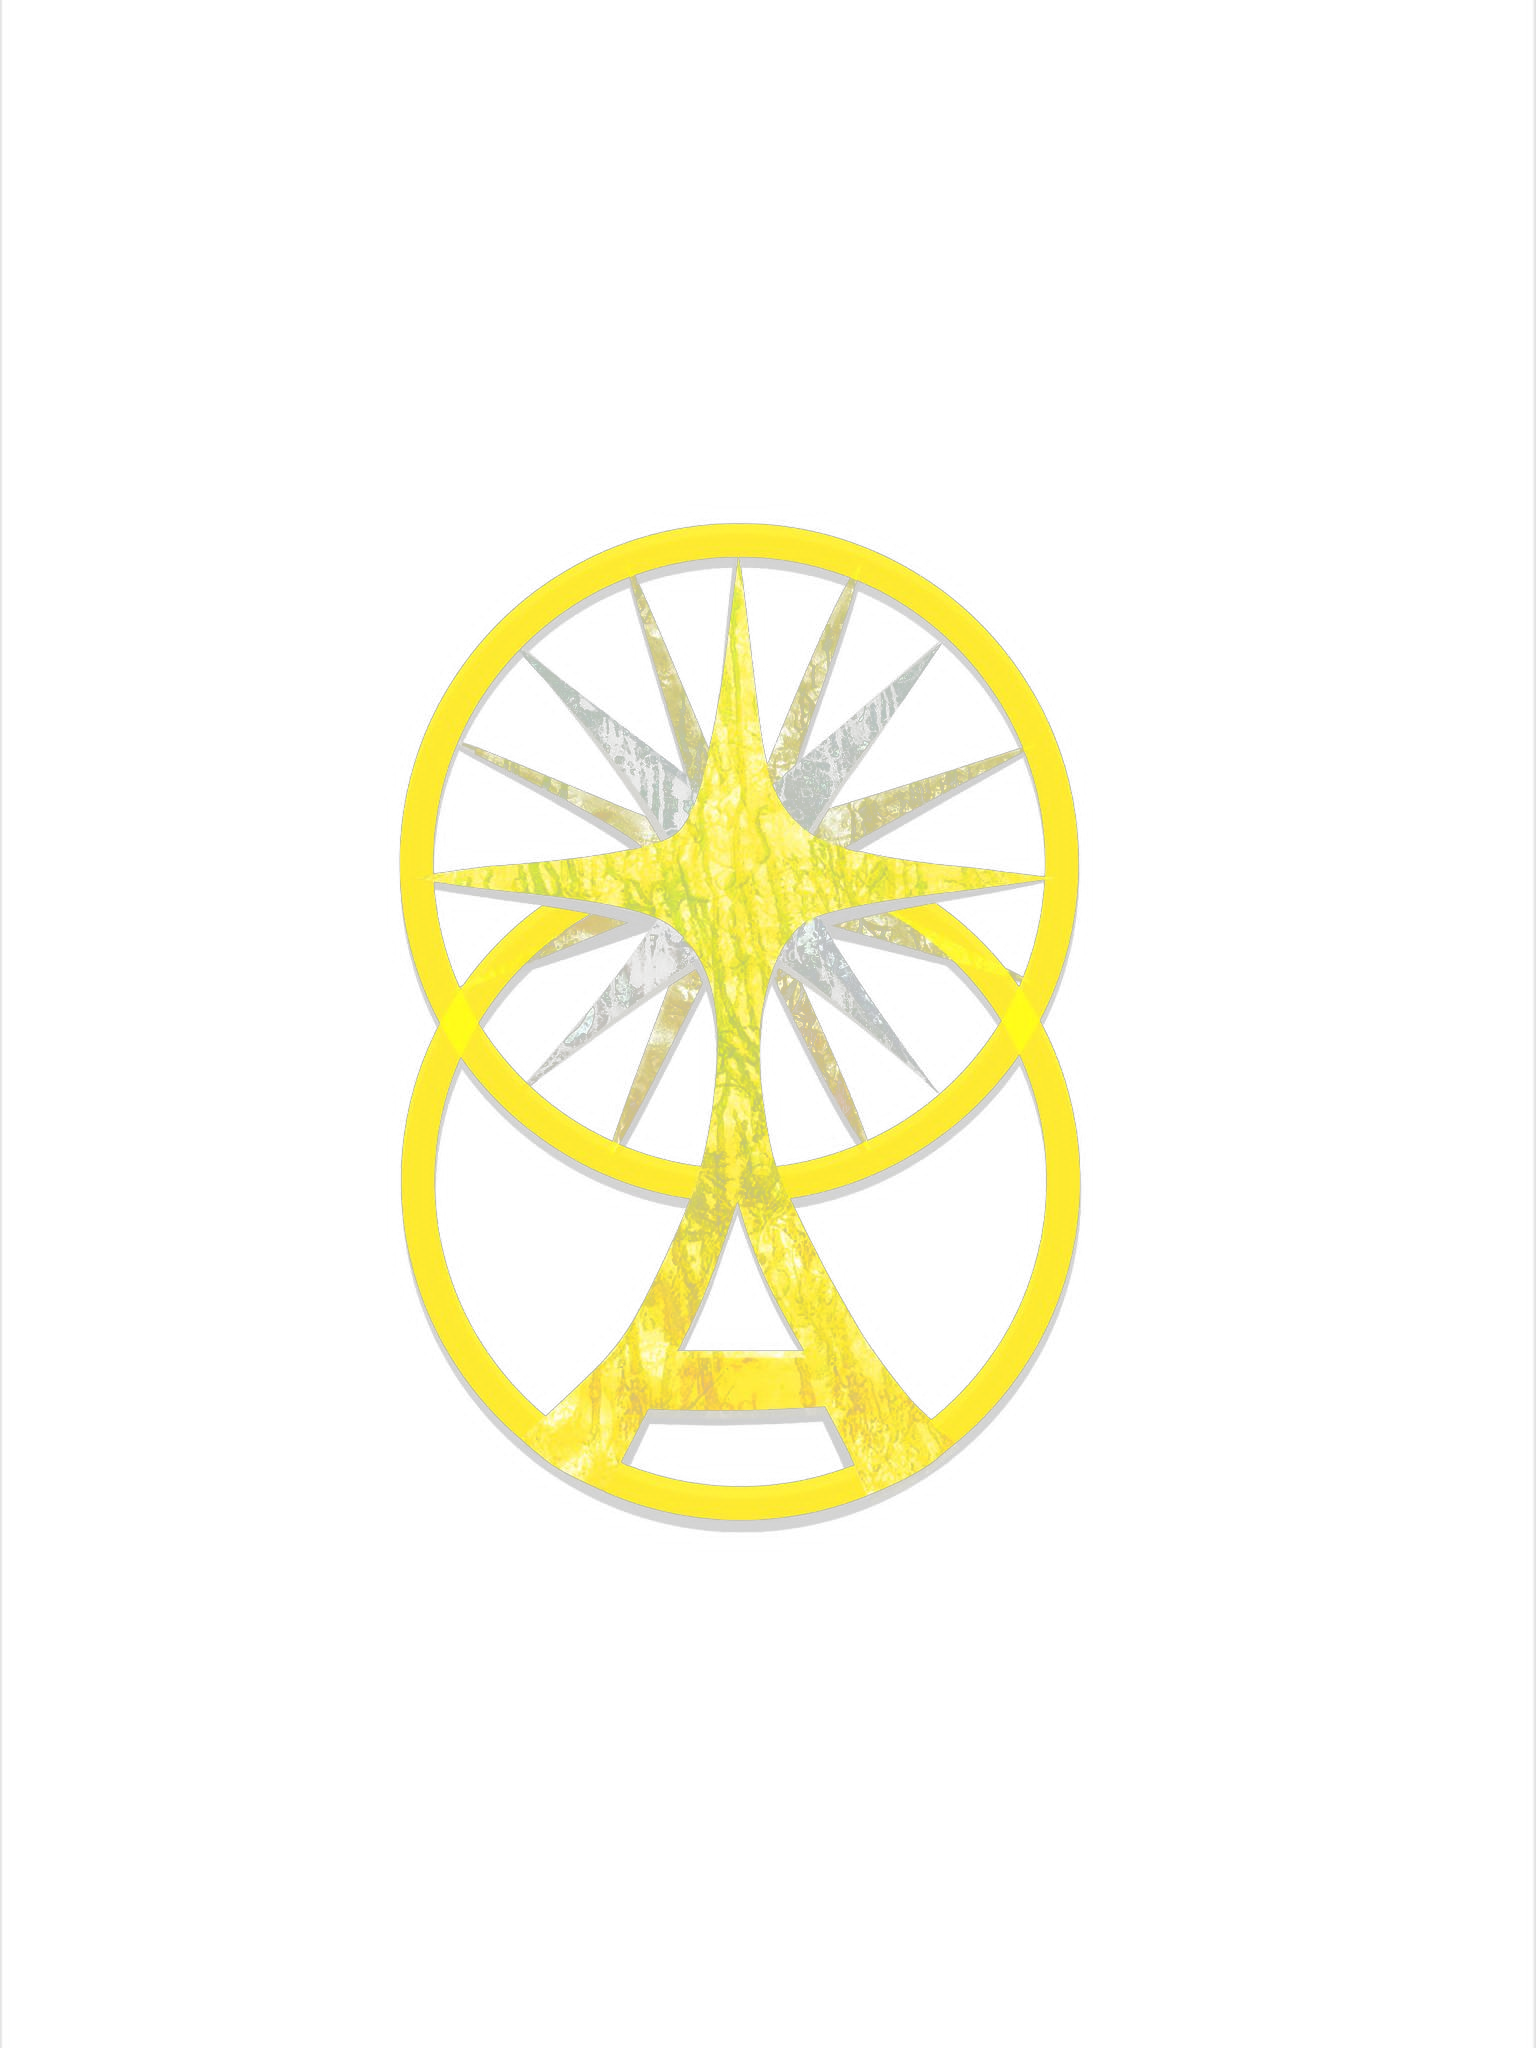
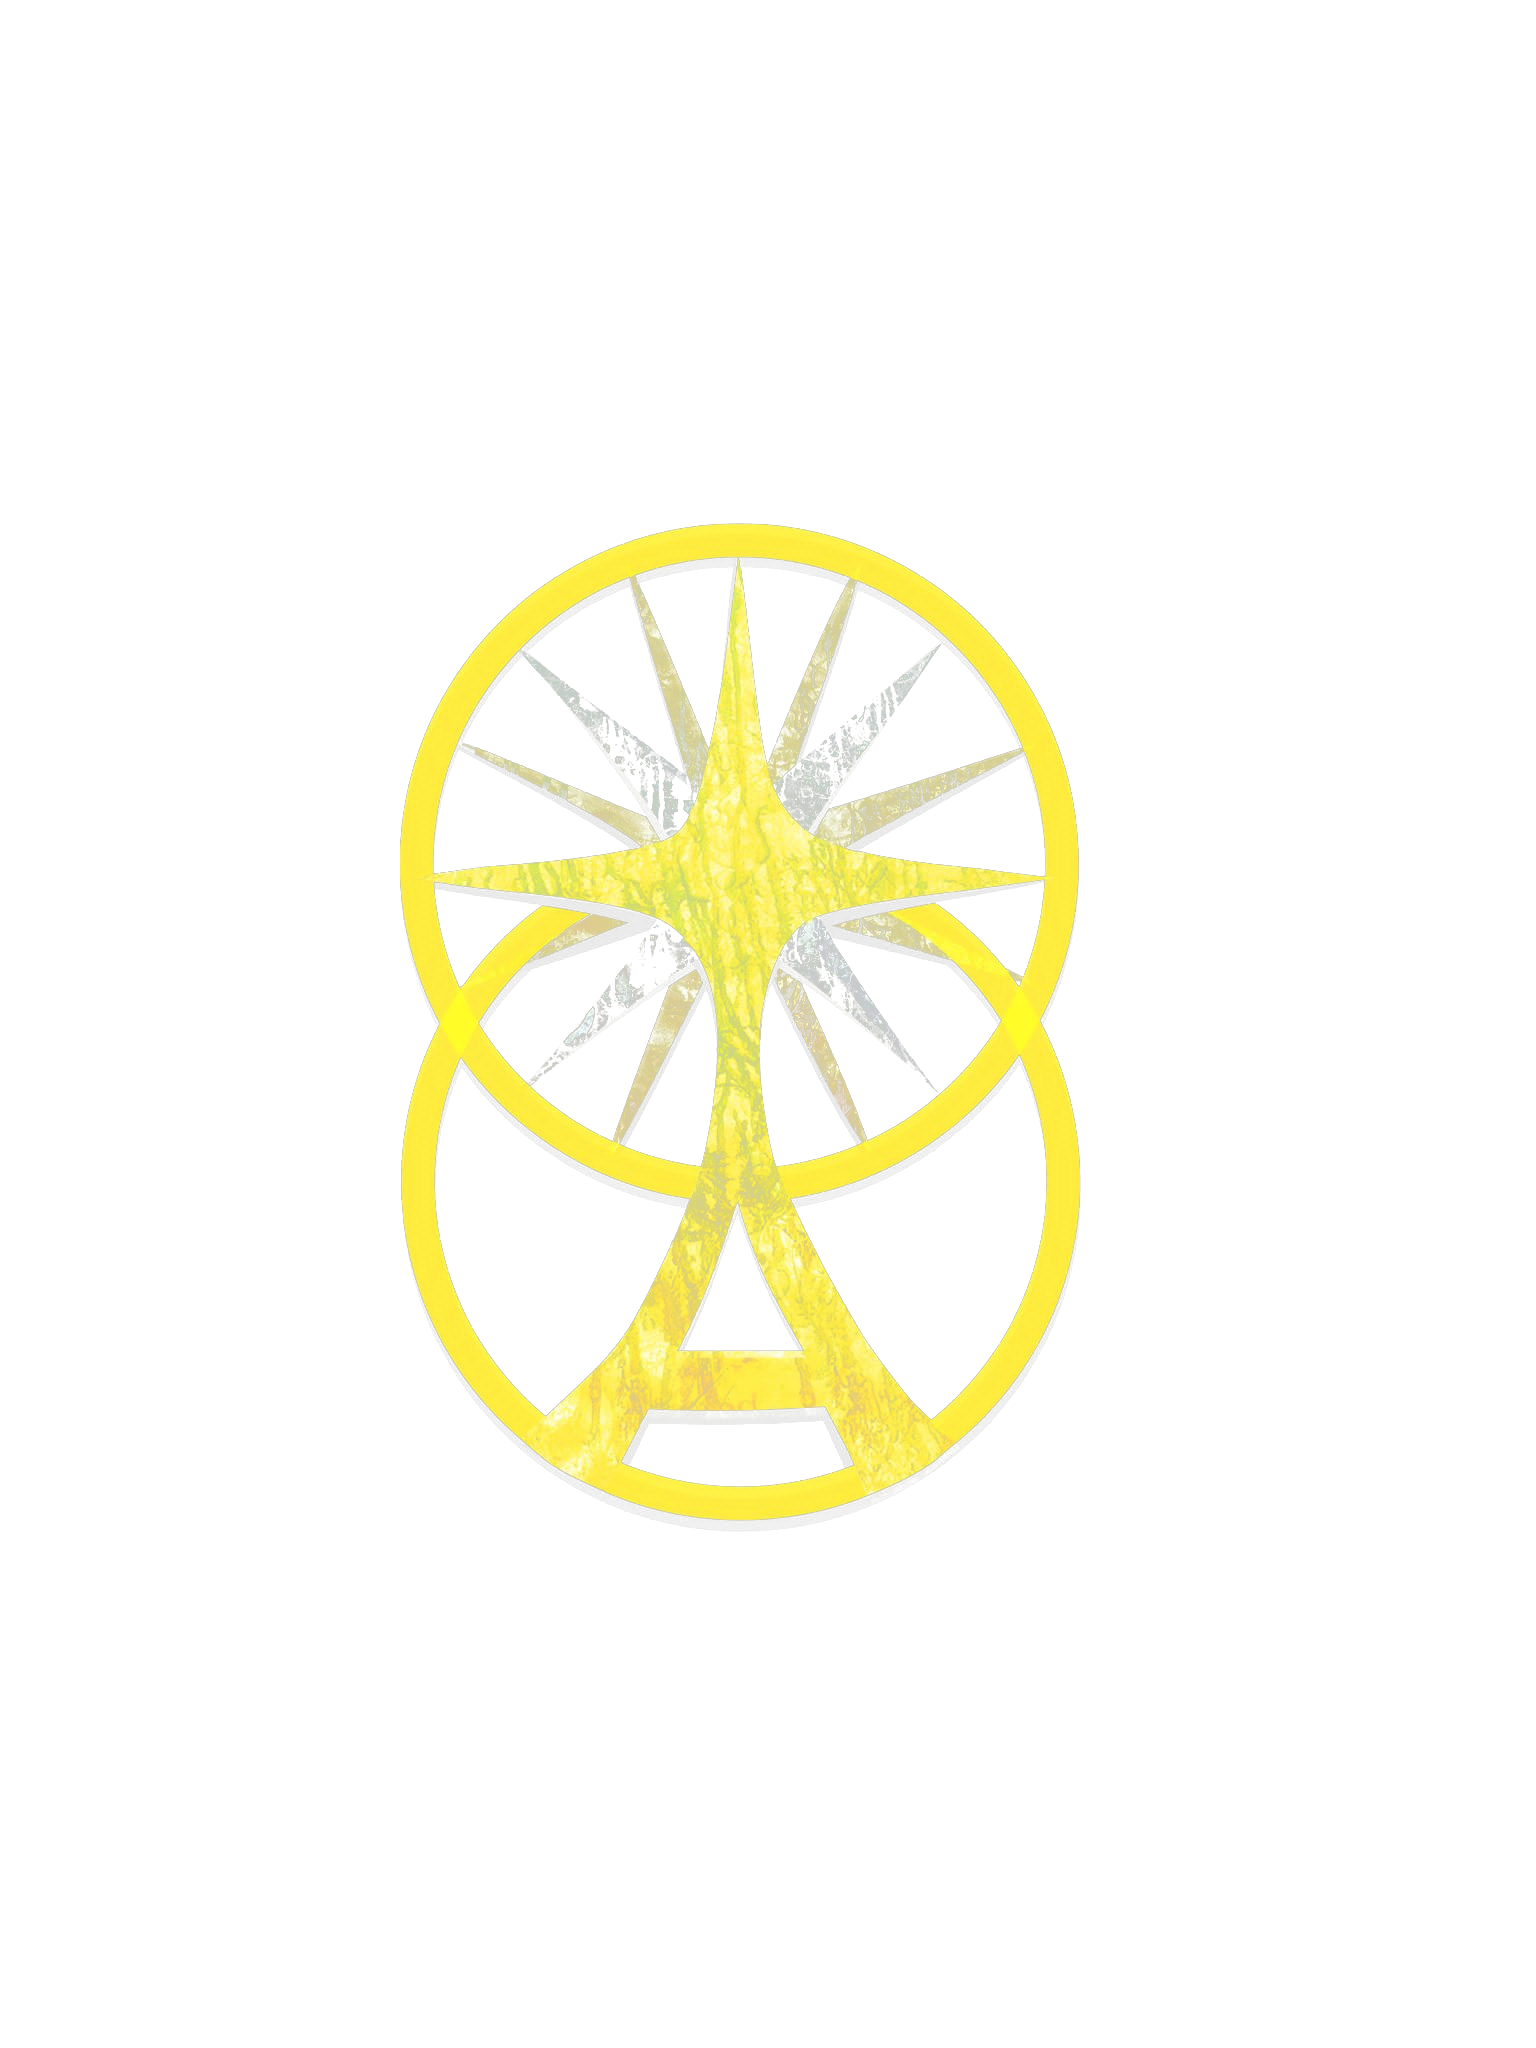
fix(seal): remove background haze and scale the seal up 1.75x (#34)
* fix(seal): remove background haze and scale the seal up 1.75x

Two real problems found on the live site, both confirmed before
fixing:

- The seal had a visible grey background different from the board's
  white. Pixel-sampled the PNG directly: all 4 corners read alpha
  ~32-34, not 0 - the source JPG's "black" background wasn't pure
  #000000 (JPEG compression noise), and the original luminance-as-
  alpha mapping carried that noise through as a uniform haze across
  the whole canvas. Re-derived the alpha channel with a black-point
  threshold + contrast stretch instead.

- The seal read as "very small compared to every other thing on the
  board" - confirmed by comparing against Gallery's own 800x600
  region, next to which the original 160px image was roughly 1/5 the
  width. Scaled the whole composition uniformly by 1.75x (image,
  bounding box, and ray-direction scale factor alike), so every
  clearance already checked for the first version still holds.

Verified both fixes directly: the rendered <img> element itself (not
just a static composite) for the background, and a throwaway
Gallery-sized reference region next to the seal for the size.

Claude-Session: https://claude.ai/code/session_0174Sq9Gfqa4bfP9bGm4qVGg

* fix(seal): scale typography/strokes too, correct a wrong clearance claim

Found in review (CodeRabbit, PR #34):

- The 1.75x size fix scaled geometry (image, box, ray endpoints) but
  left the heading/tagline/label font sizes, stack gap and ray stroke
[…]

diff --git a/src/features/seal/Seal.tsx b/src/features/seal/Seal.tsx
@@ -7,9 +7,29 @@ export interface SealProps {
   centerY: number;
 }
 
-const WIDTH = 960;
-const HEIGHT = 600;
-const WORD_PADDING = 8;
+// 1.75× the first version's numbers (and content/seal.ts's ray scale,
+// 0.16 → 0.28) — the owner found that version "very small compared to
+// every other thing on the board" next to Gallery's own 800×600 region
+// (Gallery.tsx). The whole composition scales by this one factor —
+// geometry, text and stroke widths alike — so nothing reads thinner or
+// smaller relative to anything else in it than the first version did.
+//
+// This does shrink the real-world clearance to Gallery's own fixed
+// position, not preserve it: Gallery doesn't grow, only the seal does.
+// The Gallery ray's endpoint to Gallery's nearest corner (-1200,-600) was
+// ~970 units in the first version; it's ~692 units now (computed
+// directly, not assumed) — still a real, confirmed gap, just a smaller
+// one than before.
+const SCALE = 1.75;
+const WIDTH = 960 * SCALE;
+const HEIGHT = 600 * SCALE;
+const SEAL_IMAGE_SIZE = 160 * SCALE;
+const WORD_PADDING = 8 * SCALE;
+const RAY_STROKE_WIDTH = 1 * SCALE;
+const HEADING_FONT_SIZE = 30 * SCALE; // text-3xl
+const TAGLINE_FONT_SIZE = 14 * SCALE; // text-sm
+const LABEL_FONT_SIZE = 12 * SCALE; // text-xs
+const STACK_GAP = 4 * SCALE; // gap-1
 
 /**
  * The board's centre seal (docs/decisions.md D-81) — the "middle spot"
@@ -52,18 +72,41 @@ export function Seal({ centerX, centerY }: SealProps) {
         aria-hidden="true"
       >
         {sealRays.map((ray) => (
-          <line key={ray.label} x1={0} y1={0} x2={ray.x} y2={ray.y} stroke="rgba(21,19,15,0.25)" strokeWidth={1} />
+          <line
+            key={ray.label}
+            x1={0}
+            y1={0}
+            x2={ray.x}
+            y2={ray.y}
+            stroke="rgba(21,19,15,0.25)"
+            strokeWidth={RAY_STROKE_WIDTH}
+          />
         ))}
       </svg>
 
       {/* The seal mark + wordmark, dead-centre. */}
       <div
-        className="absolute flex flex-col items-center gap-1"
-        style={{ left: WIDTH / 2, top: HEIGHT / 2, transform: "translate(-50%, -50%)" }}
+        className="absolute flex flex-col items-center"
+        style={{ left: WIDTH / 2, top: HEIGHT / 2, transform: "translate(-50%, -50%)", gap: STACK_GAP }}
       >
-        <img src="/videos/all_life_seal.png" alt="" className="h-40 w-40 object-contain" />
-        <span className="whitespace-nowrap font-heading text-3xl font-semibold text-shop-ink">{sealHeading}</span>
-        <span className="whitespace-nowrap font-body text-sm italic text-shop-ink/70">{sealTagline}</span>
+        <img
+          src="/videos/all_life_seal.png"
+          alt=""
+          className="object-contain"
+          style={{ width: SEAL_IMAGE_SIZE, height: SEAL_IMAGE_SIZE }}
+        />
+        <span
+          className="whitespace-nowrap font-heading font-semibold text-shop-ink"
+          style={{ fontSize: HEADING_FONT_SIZE }}
+        >
+          {sealHeading}
+        </span>
+        <span
+          className="whitespace-nowrap font-body italic text-shop-ink/70"
+          style={{ fontSize: TAGLINE_FONT_SIZE }}
+        >
+          {sealTagline}
+        </span>
       </div>
 
       {/* One label per ray, starting just past its tip and flowing
@@ -73,11 +116,12 @@ export function Seal({ centerX, centerY }: SealProps) {
         return (
           <span
             key={ray.label}
-            className="absolute whitespace-nowrap font-body text-xs italic text-shop-ink/70"
+            className="absolute whitespace-nowrap font-body italic text-shop-ink/70"
             style={{
               left: WIDTH / 2 + ray.x + (isLeft ? -WORD_PADDING : WORD_PADDING),
               top: HEIGHT / 2 + ray.y,
               transform: isLeft ? "translate(-100%, -50%)" : "translate(0, -50%)",
+              fontSize: LABEL_FONT_SIZE,
             }}
           >
             {ray.label}

diff --git a/src/content/seal.ts b/src/content/seal.ts
@@ -7,9 +7,18 @@
  * the 4 places available currently" — not the reference mockup's 12
  * abstract mood words). Each ray's (x,y) is the real gallery/collage/
  * shop-wall/contact viewpoint coordinate (src/canvas/viewpoints.ts)
- * scaled down (×0.16) so it reaches a sensible distance from the seal
+ * scaled down (×0.28) so it reaches a sensible distance from the seal
  * without crowding those regions' own cards — same direction, not an
  * arbitrary angle, so each arrow genuinely points toward its place.
+ *
+ * ×0.28, not the first version's ×0.16: the owner found the first version
+ * read as "very small compared to every other thing on the board" once
+ * seen live on a real device — confirmed by comparing against Gallery's
+ * own 800×600 region (src/pages/Gallery.tsx), next to which the original
+ * 160px seal image barely registered. 0.28 is 1.75× the original 0.16,
+ * the same uniform factor Seal.tsx scales its image size and bounding box
+ * by, so every proportion/clearance already checked for the first version
+ * holds exactly, just bigger.
  */
 export interface SealRay {
   label: string;
@@ -21,8 +30,8 @@ export const sealHeading = "ALL LIFE";
 export const sealTagline = "light entering from darkness";
 
 export const sealRays: SealRay[] = [
-  { label: "Gallery", x: -320, y: -192 }, // gallery viewpoint (-2000,-1200) × 0.16
-  { label: "Collage", x: 320, y: -192 }, // collage viewpoint (2000,-1200) × 0.16
-  { label: "The Shop", x: 320, y: 192 }, // shop-wall viewpoint (2000,1200) × 0.16
-  { label: "Contact", x: -320, y: 192 }, // contact viewpoint (-2000,1200) × 0.16
+  { label: "Gallery", x: -560, y: -336 }, // gallery viewpoint (-2000,-1200) × 0.28
+  { label: "Collage", x: 560, y: -336 }, // collage viewpoint (2000,-1200) × 0.28
+  { label: "The Shop", x: 560, y: 336 }, // shop-wall viewpoint (2000,1200) × 0.28
+  { label: "Contact", x: -560, y: 336 }, // contact viewpoint (-2000,1200) × 0.28
 ];

diff --git a/src/features/seal/Seal.test.tsx b/src/features/seal/Seal.test.tsx
@@ -32,7 +32,7 @@ describe("Seal", () => {
   it("is positioned around its exact world centre", () => {
     const { container } = render(<Seal centerX={500} centerY={-300} />);
     const root = container.querySelector("[data-board-seal]") as HTMLElement;
-    expect(root.style.left).toBe("20px");
-    expect(root.style.top).toBe("-600px");
+    expect(root.style.left).toBe("-340px");
+    expect(root.style.top).toBe("-825px");
   });
 });

diff --git a/docs/decisions.md b/docs/decisions.md
@@ -673,6 +673,17 @@ Alternatives considered: a CSS `mix-blend-mode`/filter trick on the raw JPG — 
 
 Consequences: `npm run typecheck`/`lint`/`test` (511/511)/`build` all pass (195.26 KB gzip initial bundle, unchanged from D-80's own figure — the new PNG is a `public/` asset, copied verbatim, not bundled). Visual check via the established throwaway-dev-route + Playwright-screenshot technique (both the real default `/gallery` overview camera and a close-up, then the Home button specifically, all against `/dev/canvas` since this sandbox has no Docker/Supabase to run the real `/gallery` route) confirmed the seal, rays and labels read cleanly at both zoom levels, don't crowd any quadrant, and that Home now centres correctly post-fix; scaffolding fully reverted afterward (`git status` clean). Real axe e2e confirmation and a real-device check are still pending real CI, same honesty as D-78/D-80's own flagged gaps.
 
+**Update (2026-11-21, owner found two real problems on the live site, both confirmed before fixing — not guessed):**
+
+1. **The seal had a visible grey/hazy background, different from the board's white.** Pixel-sampled `all_life_seal.png` directly (Python/PIL) rather than assuming the first extraction was clean: all 4 corners read alpha ≈32-34, not 0 — a uniform low-level haze across the *entire* rectangular canvas, not real content. Root cause: the source JPG's "black" background wasn't pure `#000000` (JPEG compression noise/vignette left it at RGB ≈2-3), and the original luminance-as-alpha mapping carried that noise straight through as a faint but nonzero alpha. Fixed by re-deriving the alpha channel with a black-point threshold + contrast stretch (clip anything at or below the measured haze level to true 0, then rescale the remainder back to the full 0–255 range so the real glow's own contrast isn't flattened) — re-verified all 4 corners now read alpha 0, and confirmed in the actual browser (not just a static composite) by screenshotting the rendered `<img>` element directly.
+2. **The seal read as small compared to every other thing on the board.** Real comparison, not a guess: Gallery's own region is 800×600 world units (`Gallery.tsx`) against the seal's original 160px image and 960×600 box — roughly 1/5 the width. Scaled the whole composition uniformly by 1.75× — not just geometry: image, box, ray scale factor (0.16→0.28), stroke width, and the heading/tagline/label font sizes and stack gap all move by the same single `SCALE` constant (`Seal.tsx`), so nothing reads thinner or smaller relative to anything else in the composition than the first version did (found in review, CodeRabbit: the first pass of this fix scaled geometry but left typography/strokes at their original size).
+
+   This shrinks the seal's real clearance to Gallery's own fixed position, not preserves it — Gallery doesn't grow, only the seal does (also found in review, CodeRabbit, after an initial wrong claim here that it "holds exactly, just bigger"). Computed directly: the Gallery ray's endpoint to Gallery's nearest corner (-1200,-600) was ~970 units in the first version; it's ~692 units now — still a real, confirmed gap, just a smaller one than before, not an unchanged one.
+
+   Verified directly: built a throwaway `/dev/canvas` scene with a Region sized to Gallery's exact real 800×600 dimensions next to the seal, screenshotted both at the same camera, and confirmed the seal's own footprint (rays included) now reads as comparable to or larger than a single quadrant region, not a speck beside it.
+
+Consequences: `npm run typecheck`/`lint`/`test` (511/511)/`build` all pass, same bundle size. Scaffolding reverted (`git status` clean) after the comparison screenshot.
+
 ## Owner questions that block work
 
 List here with a date when asked and the answer when received.
